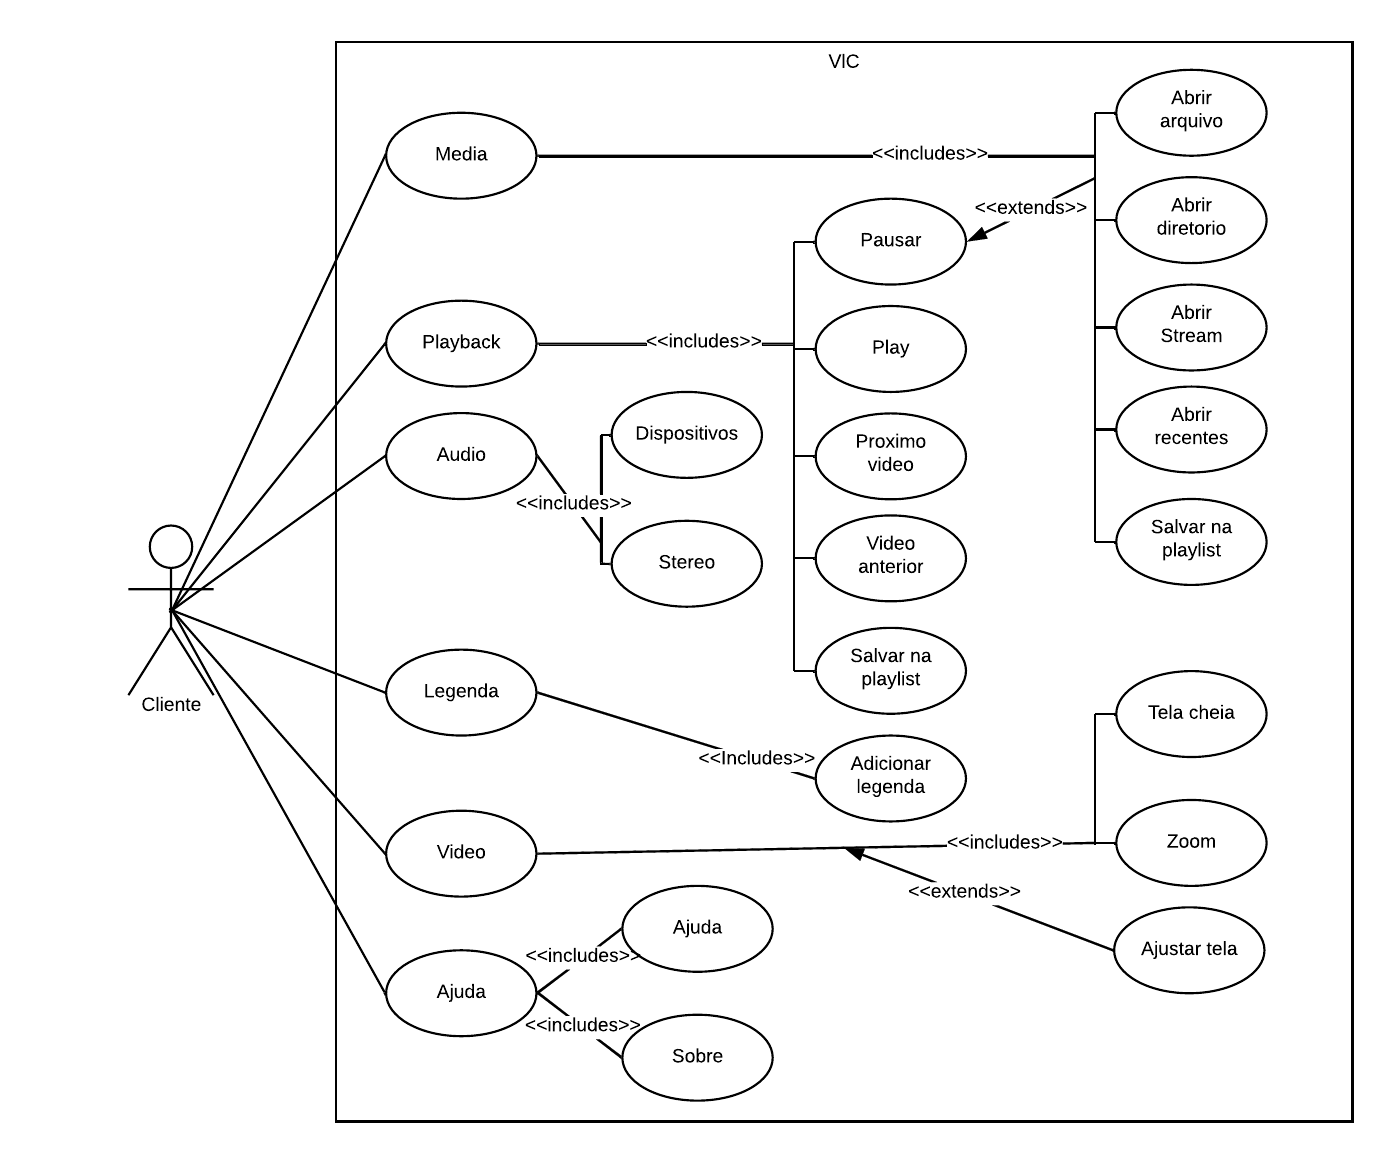
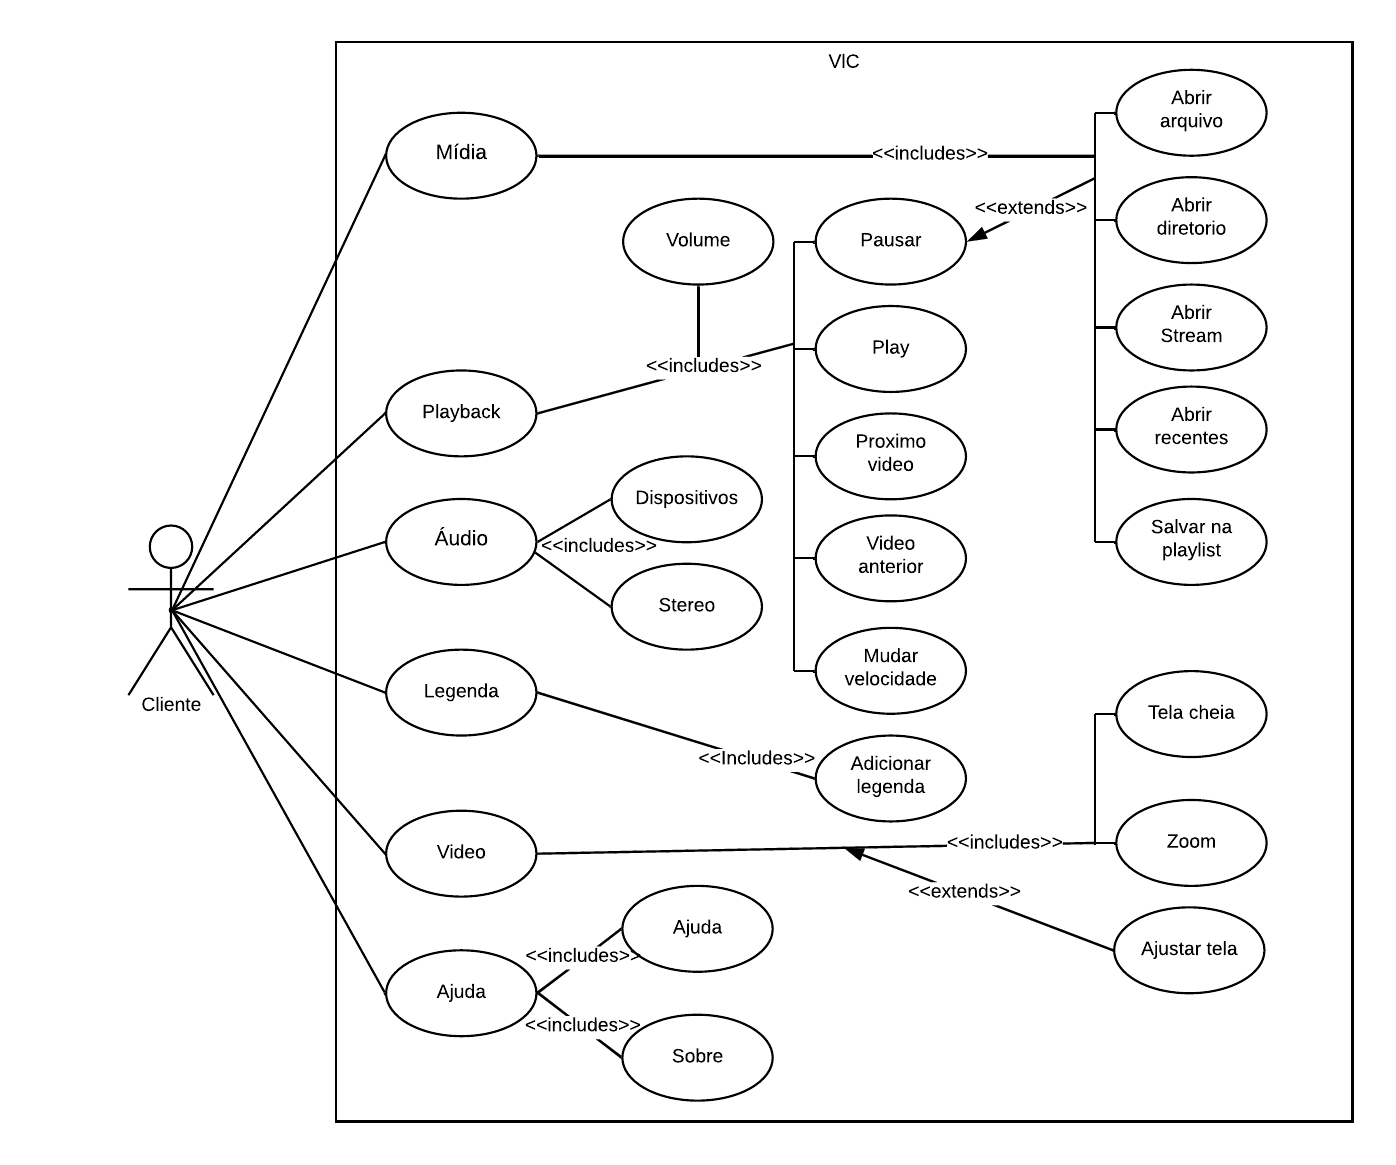
#115 finalizado tabelas de casos de uso

diff --git a/docs/modelagem/casos_de_uso.md b/docs/modelagem/casos_de_uso.md
@@ -117,13 +117,98 @@ Um diagrama de casos de uso possui os seguintes elementos em sua composição. O
 | **Fluxos alternativos** | Não há |
 | **Fluxos de exceção** | <b>Fluxo 1: O Usuário clicka em abrir uma mídia</b> <ol> <li> O sistema abre o gerenciado de arquivos do dispositivo <li> O gerenciador de arquivos navega entre as pastas mostrando mídias disponíveis <li> O usuário escolhe uma mídia <ul> <li> A mídia selecionada abre no aplicativo pausada por padrão </ul> </ol> <b> Fluxo 2: O usuário clicka em abrir um diretorio</b> <ol> <li> O sistema abre o gerenciado de arquivos do dispositivo <li> O gerenciador de arquivos navega mostrando as pastas disponíveis </ol> <b> Fluxo 3: O usuário abre uma stream</b> <ol> <li> O Sistema abre uma janela de configurações da stream <ul> <li> O usuários pode configurar a URL de stream <li>O usuário pode configurar o arquivo <li> O usuário pode configurar a qualidade da stream </ul> <li> O usuário da play na stream </ol> <b>Fluxo 4: O usuário clicka em abrir recentes</b> <ol> <li> O sistema mostra em uma menu de cascata as mídias recentes <li> O usuário escolhe a mídia <li> O sistema inicia a mídia </ol> <b> Fluxo 5: O usuário clicka em salvar uma playlist </b> <ol> <li> O sistema abre o gerenciado de arquivos do dispositivo <li> O gerenciador de arquivos navega entre as pastas disponíveis <li> O usuário escolhe a pasta <li> O usuário salva a playlist em formato de um arquivo </ol>|
 | **Pós condições** | O usuário tem acesso a eventos de playback |
-| **Data da criação | 15/05/2023 |
+| **Data da criação** | 15/05/2023 |
 | **Rastreabilidade** |  |
 
 <div style="text-align: center">
 <p> Tabela 1: Especificação do caso de uso: Mídia. (Fonte: Mizael Santos, 2023).</p>
 </div>
 
+| UC02 | Playback |
+| -: | :- |
+| **Atores** | Usuário |
+| **Frequência de uso** | Alta |
+| **Requisitos** | Manipular mídias abertas |
+| **Condição de entrada** | O usuário seleciona uma das opções do player, pausar, iniciar, anterior, proximo, timestemp |
+| **Fluxo principal** | <ol> <li> O usuário clicka em uma das opções  <li> O  sistema responde o escolha manipulando a mídia </ol> |
+| **Fluxos alternativos** | Não há |
+| **Fluxos de exceção** | <b>Fluxo 1: O Usuário clicka em iniciar a mídia</b> <ol> <li> O sistema responde pausando a mídia <li> O sistema atualiza o estado do botão para pausar </ol> <b> Fluxo 2: O usuário clicka em próximo</b> <ol> <li> O sistema abre a próxima mídia disponível na playlist </ol> <b> Fluxo 3: O usuário clicka em anterior</b> <ol> <li> O sistema abre a mídia anterior disponível na playlist </ol> <b>Fluxo 4: O usuário clicka em mudar velocidade</b> <ol> <li> O sistema mostra em uma menu de cascata com as velocidades disponíveis <ul> <li> Rápido <li> Normal <li> Lento </ul> <li> O usuário escolhe a velocidade <li> O sistema modifica a velocidade da mídia </ol> |
+| **Pós condições** | Não há |
+| **Data da criação** | 15/05/2023 |
+| **Rastreabilidade** |  |
+
+<div style="text-align: center">
+<p> Tabela 2: Especificação do caso de uso: Playback. (Fonte: Mizael Santos, 2023).</p>
+
+| UC03 | Áudio |
+| -: | :- |
+| **Atores** | Usuário |
+| **Frequência de uso** | Alta |
+| **Requisitos** | Manipular o áudio da mídia executada |
+| **Condição de entrada** | O usuário seleciona uma das opções do stereo ou dispositivos |
+| **Fluxo principal** | <ol> <li> O usuário clicka em uma das opções <li> O  sistema responde o escolha manipulando o áudio </ol> |
+| **Fluxos alternativos** | Não há |
+| **Fluxos de exceção** | <b>Fluxo 1: O Usuário clicka em dispositivos</b> <ol> <li> O sistema mostra em uma menu de cascata com os dispositivos de saída disponíveis <li> O usuário escolhe o dispositivos de saída que deseja </ol> <b> Fluxo 2: O usuário clicka em stereo </b> <ol> <li> O sistema mostra em uma menu de cascata com os modos de áudio disponíveis <ul> <li> Mono <li> Stereo <li> Esquerda <li> Direita <li> Stereo reverso </ul> </ol> |
+| **Pós condições** | Não há |
+| **Data da criação** | 15/05/2023 |
+| **Rastreabilidade** |  |
+
+<div style="text-align: center">
+<p> Tabela 3: Especificação do caso de uso: Áudio. (Fonte: Mizael Santos, 2023).</p>
+</div>
+
+</div>
+
+| UC04 | Legenda |
+| -: | :- |
+| **Atores** | Usuário |
+| **Frequência de uso** | Baixa |
+| **Requisitos** | Manipular as legendas da mídia |
+| **Condição de entrada** | O usuário seleciona uma das opções de legenda disponível para a mídia executada |
+| **Fluxo principal** | <ol> <li> O usuário clicka em escolher a legenda ou adicionar um arquivo de legenda  <li> O  sistema responde atualizando a legenda da mídia executada </ol> |
+| **Fluxos alternativos** | Não há |
+| **Fluxos de exceção** | <b>Fluxo 1: O Usuário clicka em adicionar uma legenda</b> <ol> <li> O sistema abre o gerenciado de arquivos do dispositivo <li> O gerenciador de arquivos navega entre as pastas mostrando os arquivos de legenda disponíveis </ol> <b> Fluxo 2: O usuário clicka em selecionar uma legenda </b> <ol> <li> O sistema abre uma janela em cascata que mostra as legendas disponíveis pela mídia por padrão </ol> |
+| **Pós condições** | O usuários visualiza a nova legenda na tela |
+| **Data da criação** | 15/05/2023 |
+| **Rastreabilidade** |  |
+
+<div style="text-align: center">
+<p> Tabela 4: Especificação do caso de uso: Legenda. (Fonte: Mizael Santos, 2023).</p>
+</div>
+
+| UC05 | Vídeo |
+| -: | :- |
+| **Atores** | Usuário |
+| **Frequência de uso** | Média |
+| **Requisitos** | Manipular opções do vídeo, resoluçao, tela cheia, zoom |
+| **Condição de entrada** | O usuário seleciona uma das opções para a mídia executada |
+| **Fluxo principal** | <ol> <li> O usuário clicka em uma das opções de ajuste de tela </ol> |
+| **Fluxos alternativos** | Não há |
+| **Fluxos de exceção** | <b>Fluxo 1: O Usuário clicka tela cheia</b> <ol> <li> O sistema muda para tela cheia </ol> <b> Fluxo 2: O usuário clicka em selecionar uma das opções de zoom </b> <ol> <li> O sistema abre uma janela em cascata que mostra as opções disponíveis para ampliar a imagem da mídia executada <ul> <li> 1:4 <li> 1:2 <li> 1:1 Original <li> 2:1 </ul> </ol> <b> Fluxo 3: O usuários clicka em ajuste de tela</b> <ol> <li> O sistema abre uma janela em cascata que mostra as opções disponíveis para ajustar o tamanho de tela do dispositivo <ul> <li> Caso o usuário não selecione um tamanho de tela, o sistema usa um tamanho de tela padronizado pelo dispositivo em que é executado </ul> </ol> |
+| **Pós condições** | O usuários visualiza a nova as novas modificações do sistema |
+| **Data da criação** | 15/05/2023 |
+| **Rastreabilidade** |  |
+
+<div style="text-align: center">
+<p> Tabela 5: Especificação do caso de uso: Vídeo. (Fonte: Mizael Santos, 2023).</p>
+</div>
+
+| UC06 | Ajuda |
+| -: | :- |
+| **Atores** | Usuário |
+| **Frequência de uso** | Baixa |
+| **Requisitos** | Ajudar o usuário |
+| **Condição de entrada** | O usuário seleciona uma das opções, ajuda ou sobre o aplicativo |
+| **Fluxo principal** | <ol> <li> O Usuário clicka em uma das opções <li> O sistema responde abrindo janelas informativas </ol> |
+| **Fluxos alternativos** | Não há |
+| **Fluxos de exceção** | <b>Fluxo 1: O Usuário clicka em ajuda </b> <ol> <li> O sistema abre uma janela de ajuda </ol> <b> Fluxo 2: O usuário clicka em sobre </b> <ol> <li> O sistema abre uma janela de que traz a informações sobre o aplicativo <ul> <li> Autores <li> Licensa <li> Creditos </ul> </ol> |
+| **Pós condições** | O usuários visualiza a nova as novas modificações do sistema |
+| **Data da criação** | 15/05/2023 |
+| **Rastreabilidade** |  |
+
+<div style="text-align: center">
+<p> Tabela 6: Especificação do caso de uso: Ajuda. (Fonte: Mizael Santos, 2023).</p>
+</div>
 
 ## Bibliografia
 <div text-align="justify">
@@ -137,3 +222,4 @@ Um diagrama de casos de uso possui os seguintes elementos em sua composição. O
 | ------ | ------------- | ---------------------------------- | ------------- | ------------- |
 | `1.0`  |   10/05/2023  |        Criação inicial do documento | Mizael Santos | Rafael Bosi |
 | `1.1`  |   10/05/2023  |        Criação dos casos de uso | Mizael Santos | Rafael Bosi |
+| `1.2`  |   10/05/2023  |        Criação das tabelas de casos de uso | Mizael Santos | Rafael Bosi |
